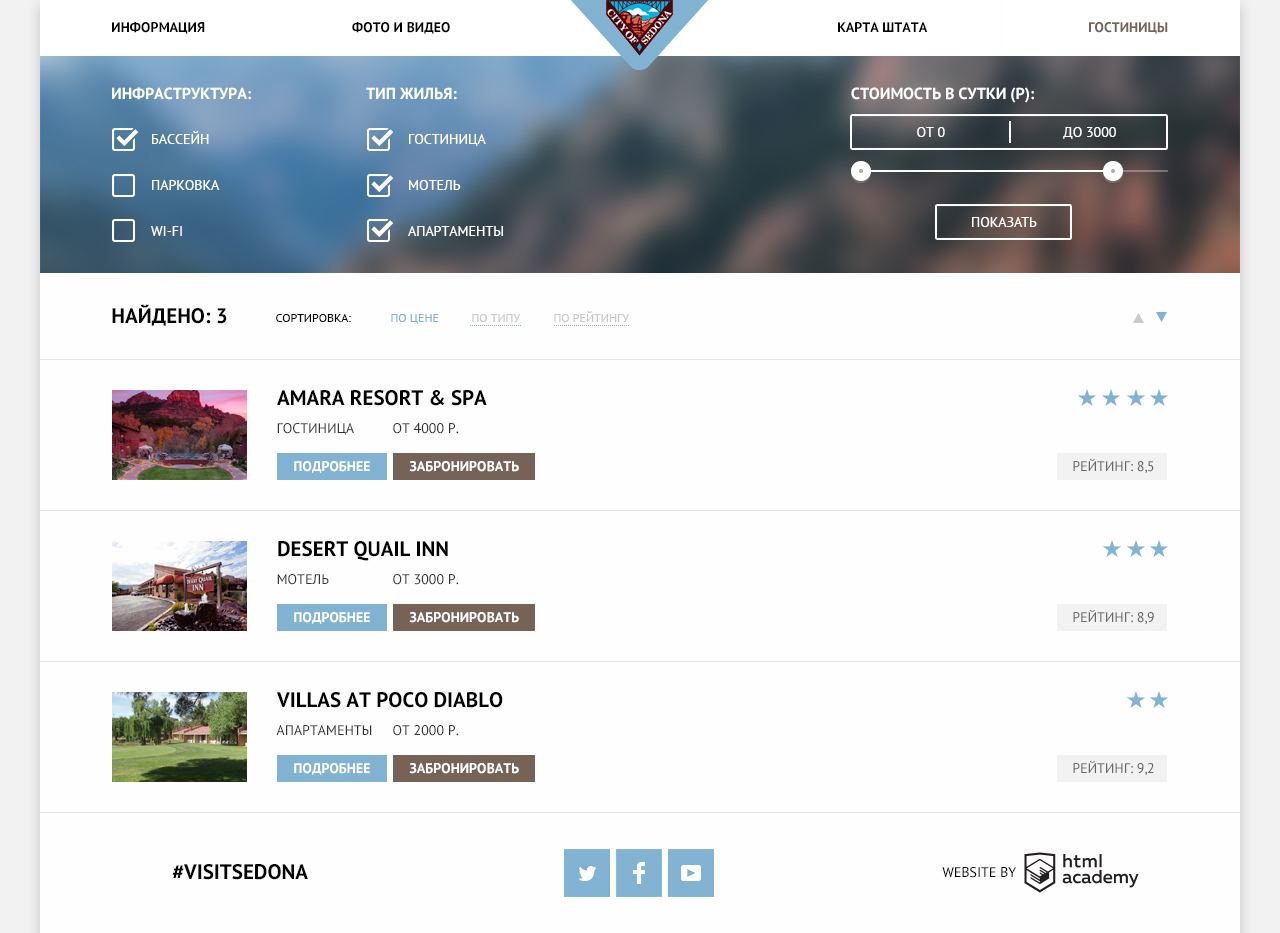
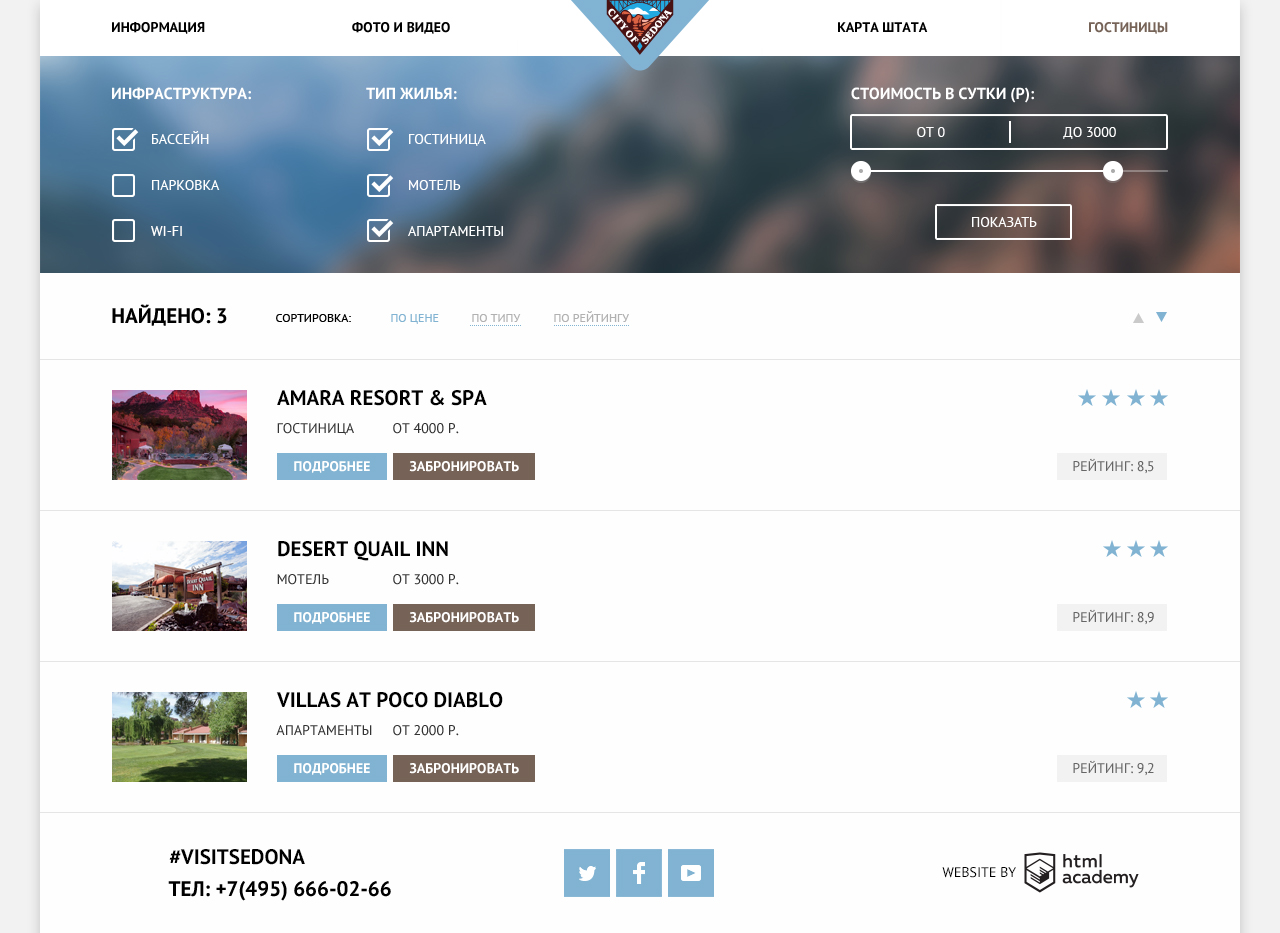
Perfect pixel footer, outline checkbox, fix form position in IE

Changed region(s): [[0.125, 0.9014, 0.3125, 0.9636], [0.4688, 0.0, 0.5312, 0.0622]]

diff --git a/css/style.css b/css/style.css
@@ -154,9 +154,11 @@ body {
 }
 
 .search-hotels__container {
+  width: 568px;
   position: absolute;
   top: 100%;
-  left: 316px; /* for support IE11*/
+  left: 0;
+  right: 0;
   z-index: -1;
   margin: 0 auto;
   text-align: center;
@@ -258,6 +260,7 @@ body {
   color: black;
   line-height: 26px;
   text-decoration: none;
+  text-transform: uppercase;
 }
 
 /* Page hotels */
@@ -630,7 +633,7 @@ body {
 }
 
 .search-hotels__form {
-  width: 568px;
+  width: 100%;
   display: -webkit-box;
   display: -ms-flexbox;
   display: flex;
@@ -664,9 +667,9 @@ body {
   -webkit-box-pack: justify;
   -ms-flex-pack: justify;
   justify-content: space-between;
-  -webkit-box-align: center;
+  /* -webkit-box-align: center;
   -ms-flex-align: center;
-  align-items: center;
+  align-items: center; */
 }
 
 .main-footer__social-list {
@@ -682,6 +685,8 @@ body {
   flex-basis: 156px;
   width: 100%;
   margin: 0;
+  margin-top: 3px;
+  margin-left: 6px;
   padding: 0;
   list-style: none;
 }
@@ -973,8 +978,8 @@ h3.advantages__title {
 }
 
 .search-hotels__conteiner-date label {
-  min-width: 91px;
-  margin-right: 20px;
+  min-width: 95px;
+  margin-right: 15px;
 }
 
 .open-calendar {
@@ -1075,6 +1080,7 @@ h3.advantages__title {
 
 .main-footer__container-1 p {
   margin: 0;
+  margin-bottom: 5px;
 }
 
 .main-footer__social-button {
@@ -1098,6 +1104,7 @@ h3.advantages__title {
   font-size: 14px;
   font-weight: normal;
   margin: 0;
+  margin-top: 7px;
 }
 
 .main-footer__copyright span {
@@ -1111,9 +1118,9 @@ h3.advantages__title {
 
 .main-footer {
   background-color: rgba(254, 254, 254, 0.9);
-  padding-top: 38px;
+  padding-top: 32px;
   padding-bottom: 31px;
-  padding-left: 132px;
+  padding-left: 123px;
   padding-right: 101px;
   max-width: 1200px;
   width: 100%;
@@ -1714,6 +1721,19 @@ a.main-navigation__list--current {
 .filter-swim-pool input[type="checkbox"]:checked:disabled + .checkbox-indicator {
   width: 27px;
   background-image: url("../img/checkbox-on-disabled.svg");
+}
+
+.filter-swim-pool input[type="checkbox"]:focus + .checkbox-indicator {
+  background-image: url("../img/checkbox-off.svg");
+  box-shadow: 0px 0px 0px 4px #4A90E2;
+  border-radius: 4px;
+}
+
+.filter-swim-pool input[type="checkbox"]:checked:focus + .checkbox-indicator {
+  width: 27px;
+  background-image: url("../img/checkbox-on.svg");
+  box-shadow: 0px 0px 0px 4px #4A90E2;
+  border-radius: 4px;
 }
 
 .infrastructure-list label,

diff --git a/js/script.js b/js/script.js
@@ -39,7 +39,10 @@ btnSearchHotels.addEventListener("click", function(evt) {
   }
 });
 
-btnSubmitForm.addEventListener("click", function(evt) {
+console.log(formSearchHotels);
+formSearchHotels.addEventListener("submit", function(evt) {
+  evt.preventDefault();
+  console.log(1);
   if (!inpDateChekIn.value || !inpDateChekOut.value || !inpAdults.value) {
     evt.preventDefault();
     formSearchHotels.classList.remove("modal-error");
